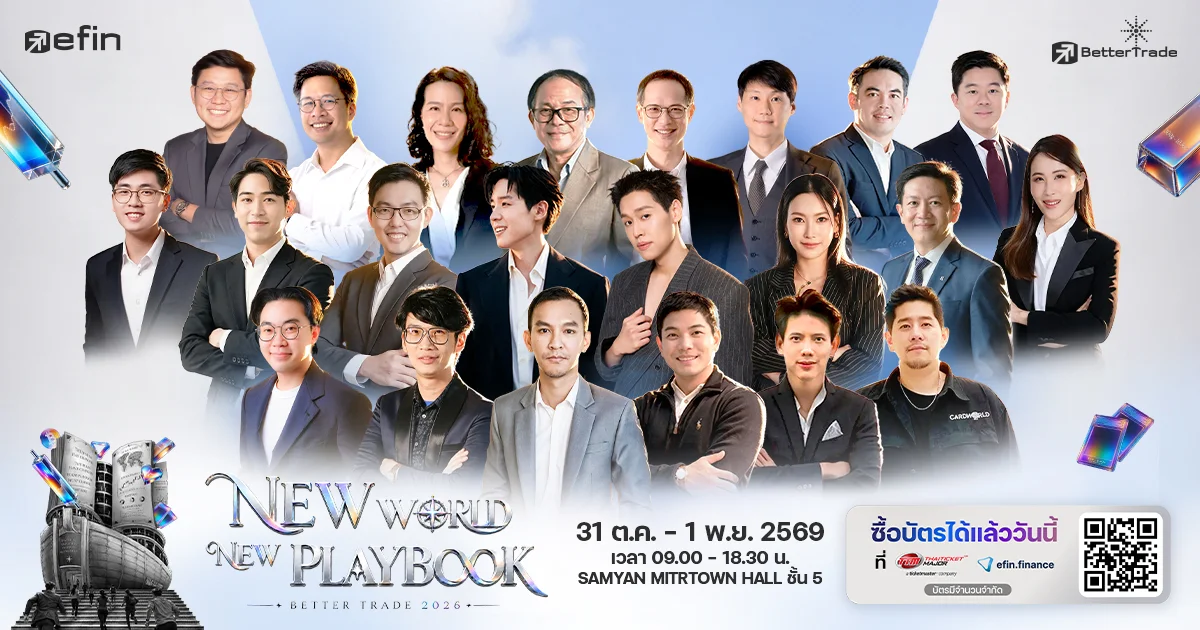
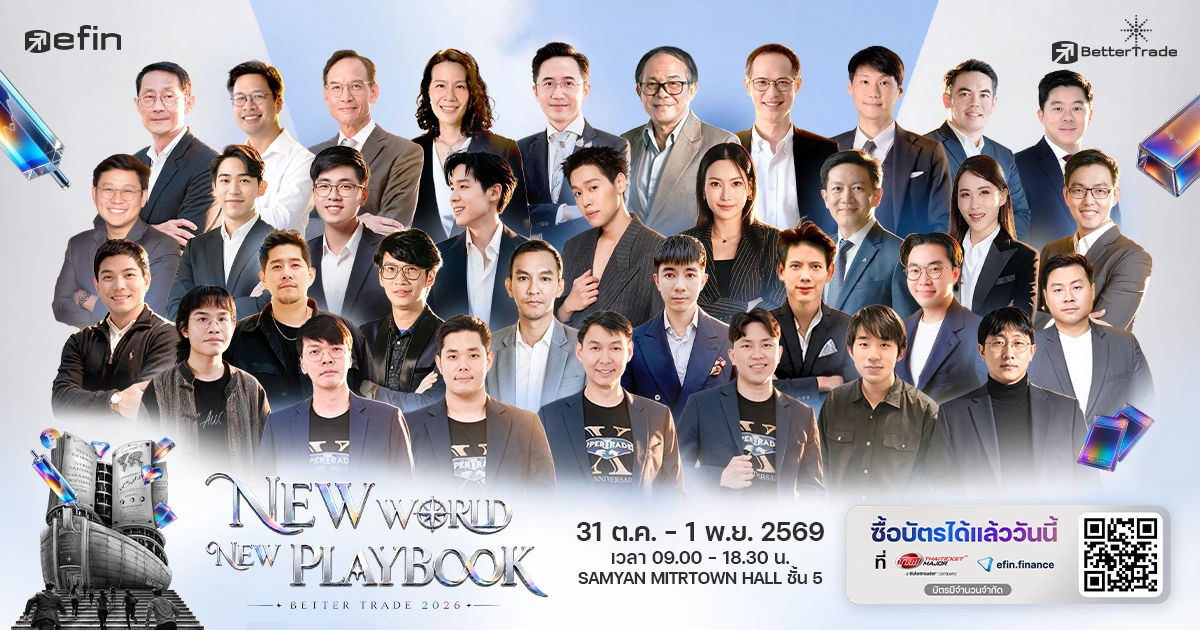
Concept video: play button becomes a PLAY cursor on hover; new og-image
- Hovering the video (mouse devices): the centre play button fades and a
  black PLAY circle of the same size flies from it to the pointer, then
  follows the mouse (cursor-dot.js data-cursor-label / data-cursor-origin)
- Play button: white ring border removed
- Updated og-image, og-image.webp?v=3

diff --git a/js/cursor-dot.js b/js/cursor-dot.js
@@ -2,17 +2,55 @@
    - สีดำบนพื้นสว่าง สีขาวบนพื้นมืด (ดู isDarkAt)
    - ตามแบบหน่วงเล็กน้อย (lerp) ให้ดูลื่น ผู้ที่ตั้งค่าลด motion จะติดปลายเมาส์ทันที
    - เฉพาะอุปกรณ์ที่มีเมาส์ (hover + pointer: fine) มือถือ/แท็บเล็ตไม่แสดง
-   - ซ่อนเมื่อเมาส์ออกนอกหน้าต่าง */
+   - ซ่อนเมื่อเมาส์ออกนอกหน้าต่าง
+   - ชี้ส่วนที่มี data-cursor-label (เช่นวิดีโอใน Concept) จุดขยายเป็นวงกลมพร้อมข้อความนั้น */
 (() => {
     if (!window.matchMedia('(hover: hover) and (pointer: fine)').matches) return;
 
     const reduced = window.matchMedia('(prefers-reduced-motion: reduce)').matches;
     const EASE = reduced ? 1 : 0.22; // สัดส่วนที่ขยับเข้าหาเมาส์ต่อเฟรม
+    const MORPH_EASE = 0.1; // ช้ากว่าปกติตอนลอยออกจากชิ้นต้นทาง (data-cursor-origin) ให้เห็นการเดินทาง
+    let ease = EASE;
 
     const dot = document.createElement('div');
     dot.className = 'cursor-dot';
     dot.setAttribute('aria-hidden', 'true');
+    const label = document.createElement('span');
+    label.className = 'cursor-dot__label';
+    dot.appendChild(label);
     document.body.appendChild(dot);
+
+    // ข้อความในวงกลมตามส่วนที่ชี้อยู่ ("" = จุดปกติ)
+    // data-cursor-origin (selector ภายในส่วนนั้น เช่นปุ่ม play กลางวิดีโอ): วงกลมเริ่มจากตำแหน่ง/ขนาดของชิ้นนั้น
+    // แล้วค่อยลอยมาหาเมาส์ (ชิ้นเดิมจางหายด้วย CSS) ดูเหมือนปุ่มกลางวิดีโอกลายเป็นเคอร์เซอร์ Play
+    let currentLabel = '';
+    const setLabelFrom = el => {
+        const host = el?.closest?.('[data-cursor-label]');
+        const text = host?.dataset.cursorLabel || '';
+        if (text === currentLabel) return;
+        currentLabel = text;
+        if (text) label.textContent = text;
+
+        const origin = text && host.dataset.cursorOrigin ? host.querySelector(host.dataset.cursorOrigin) : null;
+        // ขนาดวงกลมเท่าชิ้นต้นทางตลอดที่อยู่ในส่วนนั้น ออกแล้วคืนขนาดจุดปกติ
+        if (origin) dot.style.setProperty('--bt-cursor-dot-size', `${origin.getBoundingClientRect().width}px`);
+        else dot.style.removeProperty('--bt-cursor-dot-size');
+
+        if (origin && !reduced && dot.classList.contains('is-visible')) {
+            const box = origin.getBoundingClientRect();
+            // วางทับชิ้นต้นทางทันที (ปิด transition ชั่วคราว) แล้วลอยตามเมาส์
+            dot.classList.add('is-snapping', 'has-label');
+            x = box.left + box.width / 2;
+            y = box.top + box.height / 2;
+            dot.style.transform = `translate3d(${x}px, ${y}px, 0)`;
+            ease = MORPH_EASE;
+            void dot.offsetWidth;
+            dot.classList.remove('is-snapping');
+            if (frameId === null) frameId = requestAnimationFrame(render);
+            return;
+        }
+        dot.classList.toggle('has-label', Boolean(text));
+    };
 
     /* พื้นใต้เมาส์มืดไหม: ดูทุกชั้นที่ตำแหน่งเมาส์ (elementsFromPoint บนสุดก่อน) รวม ::before/::after
        ชั้นแรกที่มีพื้นทึบ (สีพื้น หรือสีแรกของ gradient เช่นปุ่มดำแบบ liquid metal) ใช้ตัดสินด้วยความสว่าง
@@ -46,6 +84,8 @@
         if (toneFrame !== null || !dot.classList.contains('is-visible')) return;
         toneFrame = requestAnimationFrame(() => {
             toneFrame = null;
+            // scroll แล้วส่วนที่อยู่ใต้เมาส์ (ที่นิ่งอยู่) อาจเปลี่ยน ตรวจป้ายข้อความใหม่ด้วย
+            setLabelFrom(document.elementFromPoint(targetX, targetY));
             dot.classList.toggle('is-on-dark', isDarkAt(targetX, targetY));
         });
     };
@@ -57,16 +97,19 @@
     let frameId = null;
 
     const render = () => {
-        x += (targetX - x) * EASE;
-        y += (targetY - y) * EASE;
+        x += (targetX - x) * ease;
+        y += (targetY - y) * ease;
         dot.style.transform = `translate3d(${x}px, ${y}px, 0)`;
-        frameId = Math.abs(targetX - x) + Math.abs(targetY - y) > 0.1 ? requestAnimationFrame(render) : null;
+        const distance = Math.abs(targetX - x) + Math.abs(targetY - y);
+        if (distance < 2) ease = EASE; // ถึงเมาส์แล้วกลับมาตามด้วยความเร็วปกติ
+        frameId = distance > 0.1 ? requestAnimationFrame(render) : null;
     };
 
     window.addEventListener('pointermove', event => {
         if (event.pointerType !== 'mouse') return;
         targetX = event.clientX;
         targetY = event.clientY;
+        setLabelFrom(event.target);
         if (!dot.classList.contains('is-visible')) {
             // โผล่ครั้งแรก/กลับเข้าหน้าต่าง: วางที่ปลายเมาส์เลย ไม่ลากมาจากที่เดิม
             x = targetX;

diff --git a/css/style.css b/css/style.css
@@ -2841,7 +2841,8 @@ body.menu-open .site-header__backdrop {
     isolation: isolate;
     transition:
         filter var(--duration-fast) var(--ease-standard),
-        transform var(--duration-fast) var(--ease-standard);
+        opacity var(--duration-standard) var(--ease-standard),
+        transform var(--duration-standard) var(--ease-standard);
 }
 
 .concept__video-play::before,
@@ -2869,7 +2870,6 @@ body.menu-open .site-header__backdrop {
     border-radius: inherit;
     background: linear-gradient(180deg, #9b9b9b 0%, #191a1d 100%);
     box-shadow:
-        0 0 0 var(--space-1) var(--bt-concept-video-play-ring-color),
         inset 0 var(--border-width-1) color-mix(in srgb, var(--color-neutral-0) 26%, transparent),
         0 14px 28px color-mix(in srgb, var(--color-neutral-900) 34%, transparent);
 }
@@ -2903,6 +2903,14 @@ body.menu-open .site-header__backdrop {
 .concept__video-poster:focus-visible .concept__video-play {
     filter: brightness(1.08);
     transform: translate(-50%, -50%) scale(1.03);
+}
+
+/* อุปกรณ์มีเมาส์: hover แล้วปุ่ม play จางหาย กลายเป็นวงกลม Play ที่ลอยตามเมาส์แทน (js/cursor-dot.js, data-cursor-origin) */
+@media (hover: hover) and (pointer: fine) {
+    .concept__video-poster:hover .concept__video-play {
+        opacity: 0;
+        transform: translate(-50%, -50%) scale(0.85);
+    }
 }
 
 .concept__video-poster:focus-visible {
@@ -9236,7 +9244,7 @@ body.menu-open .site-header__backdrop {
     .floor-plan__booth-name {
         color: var(--color-text-muted);
         font-size: var(--section-small-size);
-        line-height: var(--section-body-line-height);
+        line-height: var(--section-small-line-height);
     }
 
     /* ซ่อนเฉพาะเมื่อ JavaScript พร้อมทำ reveal เพื่อให้เนื้อหายังแสดงหาก JS ไม่ทำงาน */
@@ -15993,5 +16001,62 @@ html.has-floor-plan-lightbox {
     /* พื้นมืดใต้เมาส์ (js/cursor-dot.js ตรวจแล้วใส่คลาส) เปลี่ยนเป็นจุดสีขาว */
     &.is-on-dark::before {
         background: var(--color-neutral-0);
+    }
+
+    /* ชี้ส่วนที่มี data-cursor-label: จุดขยายเป็นวงกลมสีดำพร้อมข้อความขาวตรงกลาง
+       (มี data-cursor-origin: ขนาดเท่าชิ้นต้นทาง JS ใส่ --bt-cursor-dot-size ให้ เช่นเท่าปุ่ม play ของวิดีโอ) */
+    &::before {
+        transition:
+            top var(--duration-standard) var(--ease-standard),
+            left var(--duration-standard) var(--ease-standard),
+            width var(--duration-standard) var(--ease-standard),
+            height var(--duration-standard) var(--ease-standard),
+            background-color var(--duration-standard) var(--ease-standard);
+    }
+
+    &.has-label {
+        --bt-cursor-dot-size: 88px;
+    }
+
+    &.has-label::before {
+        background: var(--color-neutral-800);
+    }
+
+    .cursor-dot__label {
+        position: absolute;
+        top: 0;
+        left: 0;
+        color: var(--color-neutral-0);
+        font-family: var(--font-family-heading);
+        font-size: var(--font-size-16);
+        font-weight: var(--font-weight-medium);
+        line-height: 1;
+        letter-spacing: 0.04em;
+        text-transform: uppercase;
+        white-space: nowrap;
+        opacity: 0;
+        transform: translate(-50%, -50%) scale(0.6);
+        transition:
+            opacity var(--duration-fast) var(--ease-standard),
+            transform var(--duration-standard) var(--ease-standard);
+    }
+
+    &.has-label .cursor-dot__label {
+        opacity: 1;
+        transform: translate(-50%, -50%);
+    }
+
+    /* วางทับชิ้นต้นทาง (data-cursor-origin) ก่อนเริ่มขยาย ต้องกระโดดไปทันทีไม่ไล่ขนาด */
+    &.is-snapping::before,
+    &.is-snapping .cursor-dot__label {
+        transition: none;
+    }
+}
+
+/* วงกลมพร้อมข้อความแทนเคอร์เซอร์เดิมตรงนั้นเลย (เฉพาะอุปกรณ์มีเมาส์ที่แสดงจุดตามเมาส์)
+   ซ้ำ selector + :not(:disabled) ให้ชนะ button:not(:disabled) { cursor: pointer } ของ Bootstrap */
+@media (hover: hover) and (pointer: fine) {
+    [data-cursor-label][data-cursor-label]:not(:disabled) {
+        cursor: none;
     }
 }

diff --git a/index.html b/index.html
@@ -20,7 +20,7 @@
     <meta property="og:description" content="BetterTrade 2026: New World New Playbook งานสัมมนาลงทุน 2 วันเต็ม 31 ต.ค. - 1 พ.ย. 2569 ณ สามย่านมิตรทาวน์ ฮอลล์ ชั้น 5 บัตรเริ่ม 150 บาท รวมทุกสินทรัพย์ หุ้น ทอง คริปโต">
     <meta property="og:url" content="https://www.efin.finance/events/better-trade/better-trade2026">
     <meta property="og:image:type" content="image/webp">
-    <meta property="og:image" content="./images/og-image.webp?v=2">
+    <meta property="og:image" content="./images/og-image.webp?v=3">
     <meta property="og:image:width" content="1200">
     <meta property="og:image:height" content="630">
     <meta property="og:image:alt" content="BetterTrade 2026: New World New Playbook | 31 ต.ค. - 1 พ.ย. 2569 | Samyan Mitrtown Hall">
@@ -28,7 +28,7 @@
     <meta name="twitter:card" content="summary_large_image">
     <meta name="twitter:title" content="BetterTrade 2026: New World New Playbook | 31 ต.ค. - 1 พ.ย. 2569 | Samyan Mitrtown Hall">
     <meta name="twitter:description" content="BetterTrade 2026: New World New Playbook งานสัมมนาลงทุน 2 วันเต็ม 31 ต.ค. - 1 พ.ย. 2569 ณ สามย่านมิตรทาวน์ ฮอลล์ ชั้น 5 บัตรเริ่ม 150 บาท รวมทุกสินทรัพย์ หุ้น ทอง คริปโต">
-    <meta name="twitter:image" content="./images/og-image.webp?v=2">
+    <meta name="twitter:image" content="./images/og-image.webp?v=3">
 
     <script type="application/ld+json">
     {
@@ -36,7 +36,7 @@
         "@type": "Event",
         "name": "BetterTrade 2026: New World New Playbook | 31 ต.ค. - 1 พ.ย. 2569 | Samyan Mitrtown Hall",
         "description": "BetterTrade 2026: New World New Playbook งานสัมมนาลงทุน 2 วันเต็ม 31 ต.ค. - 1 พ.ย. 2569 ณ สามย่านมิตรทาวน์ ฮอลล์ ชั้น 5 บัตรเริ่ม 150 บาท รวมทุกสินทรัพย์ หุ้น ทอง คริปโต",
-        "image": ["https://www.efin.finance/events/better-trade/better-trade2026/images/og-image.webp?v=2"],
+        "image": ["https://www.efin.finance/events/better-trade/better-trade2026/images/og-image.webp?v=3"],
         "startDate": "2026-10-31T09:00:00+07:00",
         "endDate": "2026-11-01T17:30:00+07:00",
         "eventStatus": "https://schema.org/EventScheduled",
@@ -69,7 +69,7 @@
     <link rel="stylesheet" href="fonts/fonts.css">
     <link rel="stylesheet" href="vendor/swiper/swiper-bundle.min.css">
     <link rel="stylesheet" href="css/main.css?v=61">
-    <link rel="stylesheet" href="css/style.css?v=1181">
+    <link rel="stylesheet" href="css/style.css?v=1186">
 </head>
 
 <body class="is-loading">
@@ -1288,7 +1288,7 @@
             <div class="concept__video-perspective">
                 <div class="concept__video-frame">
                     <div class="concept__video-media" data-concept-video>
-                        <button class="concept__video-poster" type="button" aria-label="เล่นวิดีโอ BetterTrade 2026">
+                        <button class="concept__video-poster" type="button" aria-label="เล่นวิดีโอ BetterTrade 2026" data-cursor-label="Play" data-cursor-origin=".concept__video-play">
                             <img src="images/youtube-thumbnail.webp" width="1281" height="721" loading="lazy"
                                 decoding="async" alt="">
                             <span class="concept__video-play" aria-hidden="true">
@@ -2463,7 +2463,7 @@
     <script src="js/past-event-swiper.js?v=6"></script>
     <script src="js/faq-tabs.js?v=6"></script>
     <script src="js/cookie-banner.js?v=2"></script>
-    <script src="js/cursor-dot.js?v=5"></script>
+    <script src="js/cursor-dot.js?v=10"></script>
 
     <!-- Liquid metal CTAs (WebGL). Module scripts are deferred, so this runs after
      the markup exists but before window 'load' fires the hero intro. -->

diff --git a/personalized-playbook.html b/personalized-playbook.html
@@ -20,7 +20,7 @@
     <meta property="og:description" content="PERSONALIZED PLAYBOOK คู่มือลงทุนที่ถอดจากตัวคุณเอง เริ่มด้วยแบบทดสอบ Investor DNA 7 ข้อ ฟรี ใน 2 นาที">
     <meta property="og:url" content="https://www.efin.finance/events/better-trade/better-trade2026/personalized-playbook">
     <meta property="og:image:type" content="image/webp">
-    <meta property="og:image" content="./images/og-image.webp?v=2">
+    <meta property="og:image" content="./images/og-image.webp?v=3">
     <meta property="og:image:width" content="1200">
     <meta property="og:image:height" content="630">
     <meta property="og:image:alt" content="PERSONALIZED PLAYBOOK | BetterTrade 2026: New World New Playbook">
@@ -28,7 +28,7 @@
     <meta name="twitter:card" content="summary_large_image">
     <meta name="twitter:title" content="ไม่มี Playbook เล่มไหนเหมาะกับคุณเท่าเล่มที่คุณสร้างเอง">
     <meta name="twitter:description" content="PERSONALIZED PLAYBOOK คู่มือลงทุนที่ถอดจากตัวคุณเอง เริ่มด้วยแบบทดสอบ Investor DNA 7 ข้อ ฟรี ใน 2 นาที">
-    <meta name="twitter:image" content="./images/og-image.webp?v=2">
+    <meta name="twitter:image" content="./images/og-image.webp?v=3">
 
     <!-- ฉากพื้นหลังเป็น CSS background จึงถูกค้นพบช้ากว่า img ปกติ ต้องบอกให้โหลดก่อน -->
     <link rel="preload" as="image" href="images/playbook-bg.webp" fetchpriority="high" media="(min-width: 576px)">
@@ -40,7 +40,7 @@
     <link rel="stylesheet" href="vendor/bootstrap/css/bootstrap.min.css">
     <link rel="stylesheet" href="fonts/fonts.css">
     <link rel="stylesheet" href="css/main.css?v=61">
-    <link rel="stylesheet" href="css/style.css?v=1181">
+    <link rel="stylesheet" href="css/style.css?v=1186">
 </head>
 
 <body class="playbook-page">
@@ -995,7 +995,7 @@
     <script src="js/scroll-expand.js?v=5"></script>
     <script src="js/identity-cards-carousel.js?v=14"></script>
     <script src="js/cookie-banner.js?v=2"></script>
-    <script src="js/cursor-dot.js?v=5"></script>
+    <script src="js/cursor-dot.js?v=10"></script>
     <!-- Liquid metal CTAs (WebGL) ชุดเดียวกับหน้าแรก mount ปุ่มใน header และ hero ของหน้านี้ -->
     <script type="module" src="js/hero-v2-cta.js?v=29"></script>
 </body>
